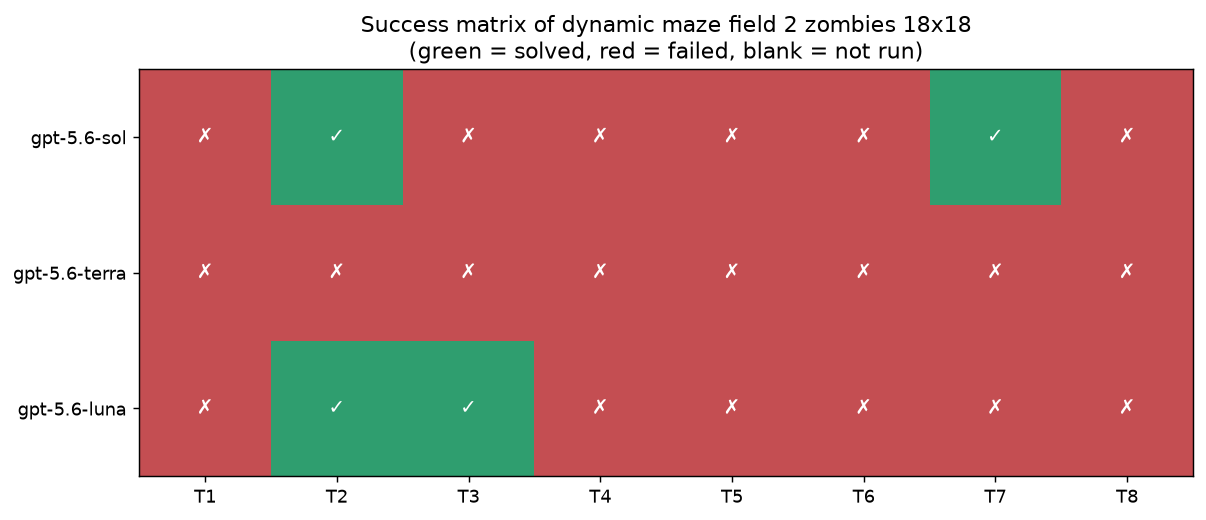
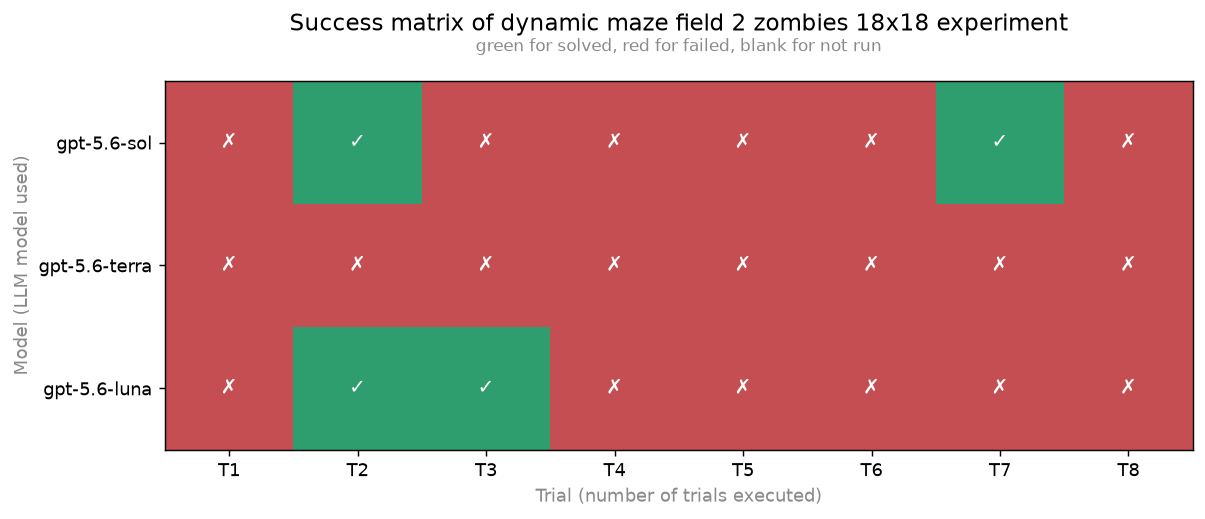
Update success matrix plot labels for clarity and consistency

diff --git a/analyze_results.py b/analyze_results.py
@@ -160,10 +160,10 @@ def plot_success_matrix(rows, out, experiment_name):
                 continue
             ax.text(ti, mi, "\u2713" if v == 1.0 else "\u2717",
                     ha="center", va="center", color="white", fontsize=11)
-    ax.set_xlabel("Trial", color=LABEL_GRAY, fontsize=10)
-    ax.set_ylabel("Model", color=LABEL_GRAY, fontsize=10)
-    ax.set_title(f"Success matrix of {experiment_name}", fontsize=13, fontweight="bold", pad=28)
-    ax.text(0.5, 1.07, "green = solved, red = failed, blank = not run",
+    ax.set_xlabel("Trial (number of trials executed)", color=LABEL_GRAY, fontsize=10)
+    ax.set_ylabel("Model (LLM model used)", color=LABEL_GRAY, fontsize=10)
+    ax.set_title(f"Success matrix of {experiment_name} experiment", fontsize=13, pad=28)
+    ax.text(0.5, 1.07, "green for solved, red for failed, blank for not run",
             transform=ax.transAxes, ha="center", va="bottom", fontsize=9.5, color=LABEL_GRAY)
     fig.tight_layout()
     fig.savefig(out, dpi=130, bbox_inches="tight")
